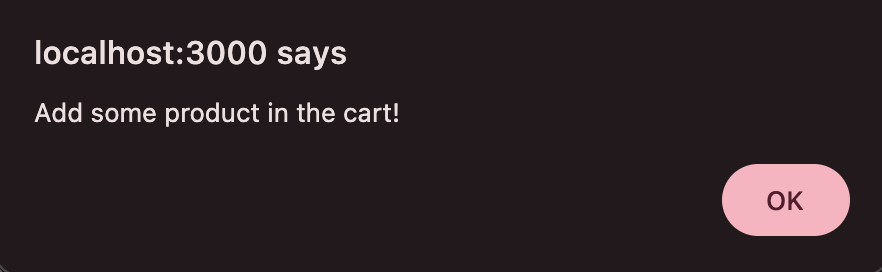
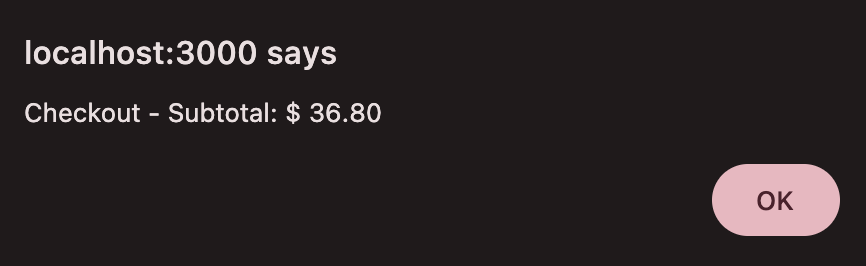
docs: use the checkout subtotal alert on the demo page

diff --git a/index.html b/index.html
@@ -240,8 +240,8 @@ footer .wrap{display:flex;flex-wrap:wrap;gap:8px 20px;justify-content:space-betw
       <figure class="card">
         <div class="label">Before · main</div>
         <img src="img/before-cart.png" alt="The cart panel before the change: two items, subtotal $36.80 and a Checkout button" width="900" height="1720" loading="lazy">
-        <img src="img/before-alert.png" alt="Browser alert: localhost:3000 says Add some product in the cart!" width="882" height="272" loading="lazy">
-        <figcaption class="note">Checkout used browser alerts. On an empty cart: "Add some product in the cart!" With items: "Checkout - Subtotal: $ 36.80", with no line items and no way back to the cart.</figcaption>
+        <img src="img/before-alert.png?v=3" alt="Browser alert: localhost:3000 says Checkout - Subtotal: $ 36.80" width="866" height="266" loading="lazy">
+        <figcaption class="note">Checkout opened a browser alert with only the subtotal. No line items, and no way back to the cart.</figcaption>
       </figure>
       <figure class="card">
         <div class="label">After · PR #109</div>
